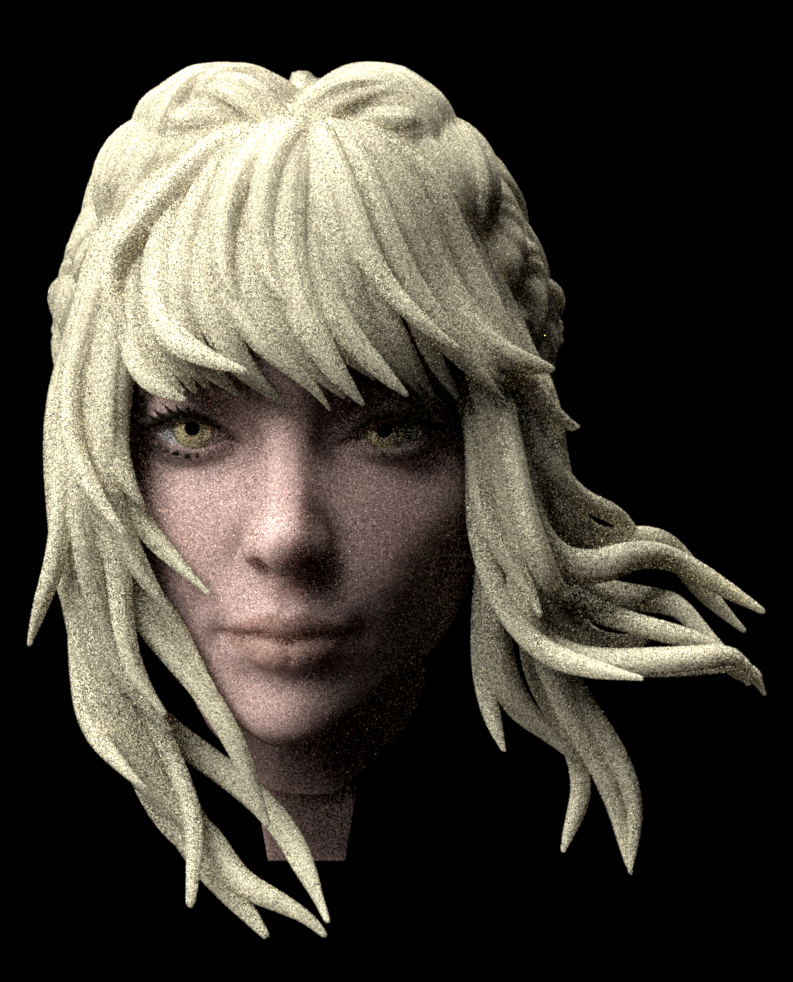
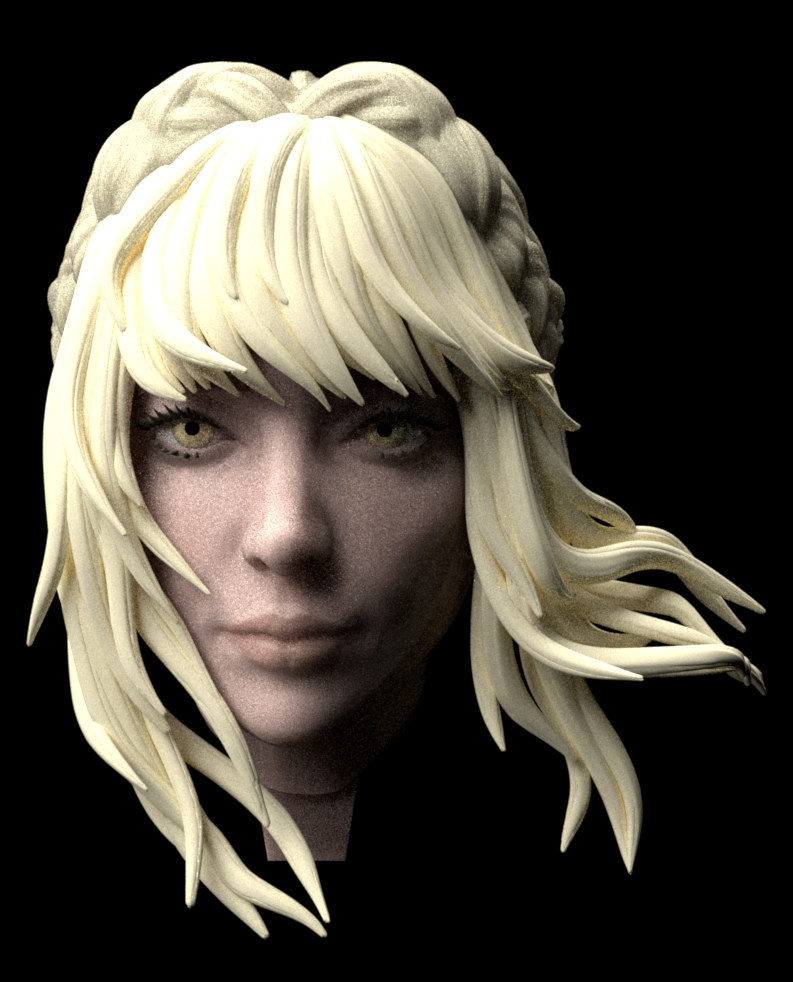
Improved Skin and hair for leda

Changed region(s): [[0.0303, 0.0611, 0.9685, 0.947]]

diff --git a/src/skin.cpp b/src/skin.cpp
@@ -66,18 +66,31 @@ public:
     }
 
     /// Evaluate the BRDF model
-    Color3f eval(const BSDFQueryRecord &bRec) const 
+    Color3f evalIntegrated(const BSDFQueryRecord &bRec) const 
     {
-        float w = 0.0f;
+        float w = 1.0f;
 
         if (bRec.agregate_id == 0)
-            w = ws;
-        else if (bRec.agregate_id == 1)
-            w = w1;
-        else if (bRec.agregate_id == 2)
-            w = w2;
+            w = ws; 
 
         return m_bsdfs[bRec.agregate_id]->eval(bRec) * w;
+    }
+
+    Color3f eval(const BSDFQueryRecord &bRec) const 
+    {
+        if (bRec.agregate_id > 0) {
+            return m_bsdfs[bRec.agregate_id]->eval(bRec);
+        }
+        else
+        {
+            Color3f _w1 = m_bsdfs[1]->eval(bRec).getLuminance();
+            Color3f _w2 = m_bsdfs[2]->eval(bRec).getLuminance();
+
+            Color3f w = 1.0f - _w1 * (1.0f - _w2);
+            w = Math::clamp(w, 0.0f, 1.0f);
+
+            return m_bsdfs[0]->eval(bRec) * w;
+        }
     }
 
     /// Compute the density of \ref sample() wrt. solid angles

diff --git a/src/microfacet.cpp b/src/microfacet.cpp
@@ -18,7 +18,7 @@ public:
         m_alpha = propList.getFloat("alpha", 0.1f);
 
         float roughness = propList.getFloat("roughness", -1.0f);
-        if (roughness > 0.0f)
+        if (roughness >= 0.0f)
             m_alpha = roughness * roughness;
 
 
@@ -32,6 +32,9 @@ public:
 
         /* Albedo of the diffuse base material (a.k.a "kd") */
         m_kd = propList.getColor("albedo", Color3f(0.5f));
+
+        if (m_kd.maxCoeff() > 1.0f)
+            m_kd /= 255.0f;
 
         /* To ensure energy conservation, we must scale the 
            specular component by 1-kd. 

diff --git a/include/nori/math.h b/include/nori/math.h
@@ -25,6 +25,7 @@ class Math
     inline static float dot(const Normal3f &a, const Vector3f &b) { return a.dot(b); }
 
     inline static float clamp(float v, float min, float max) { return std::max(min, std::min(max, v)); }
+    inline static Color3f clamp(const Color3f &v, float min, float max) { return Color3f(clamp(v.x(), min, max), clamp(v.y(), min, max), clamp(v.z(), min, max)); }
 
     inline static float toRadians(float degrees) { return degrees * PI / 180.0f; }
     inline static float toDegrees(float radians) { return radians * 180.0f / PI; }

diff --git a/src/agregate.cpp b/src/agregate.cpp
@@ -87,7 +87,7 @@ public:
     /// Evaluate the BRDF model
     Color3f eval(const BSDFQueryRecord &bRec) const 
     {
-        return m_weights[bRec.agregate_id] * m_bsdfs[bRec.agregate_id]->eval(bRec);
+        return m_bsdfs[bRec.agregate_id]->eval(bRec); // * m_weights[bRec.agregate_id]
     }
 
     /// Compute the density of \ref sample() wrt. solid angles

diff --git a/src/beckmann.cpp b/src/beckmann.cpp
@@ -19,7 +19,7 @@ public:
         m_alpha = propList.getFloat("alpha", 0.1f);
 
         float roughness = propList.getFloat("roughness", -1.0f);
-        if (roughness > 0.0f)
+        if (roughness >= 0.0f)
             m_alpha = roughness * roughness;
 
         /* Interior IOR (default: BK7 borosilicate optical glass) */
